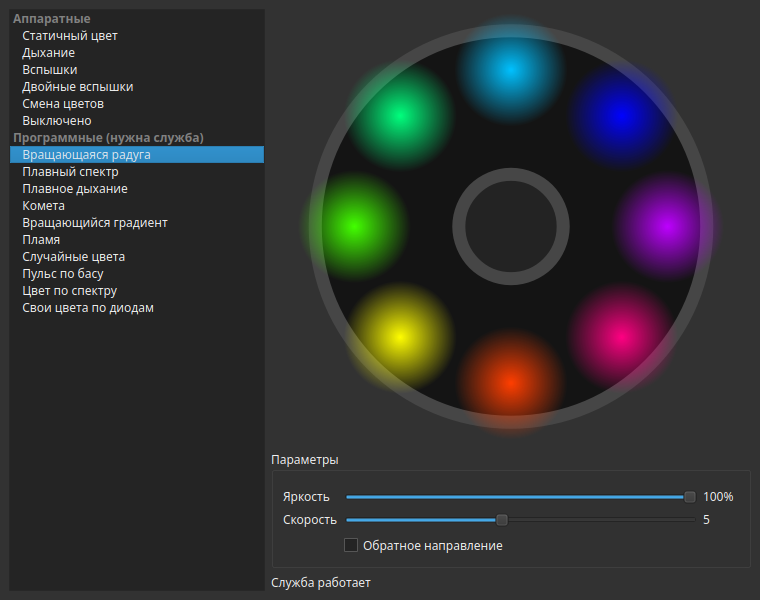
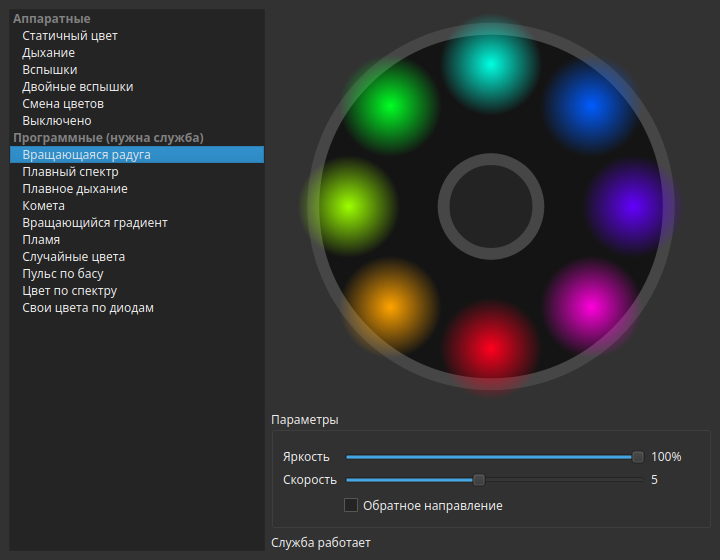
docs: update README and screenshot for the C++ version
Cover the prebuilt .deb and .tar.gz, building from source, the
resource usage of the native daemon and the project layout.

diff --git a/README.md b/README.md
@@ -26,9 +26,12 @@ per-LED software effects the firmware does not have.
   spectrum color. Capture follows the default output when you switch devices, falls back to a
   chosen idle effect during silence, and supports a per-output light delay for Bluetooth
   headphones.
-- **Daemon** (systemd user service) that applies the saved config on login, reapplies it after
-  suspend or USB reconnects, and picks up config changes live.
-- **GUI** (PySide6) with a live fan preview, and a **CLI** for scripting.
+- **Daemon** (systemd user service) that applies the saved config on login, reinitializes the
+  controller after suspend (logind `PrepareForSleep`) or USB reconnects, and picks up config
+  changes live. It is a single native process: about 9 MB of RAM and ~1.5 % of one core while a
+  music effect is running.
+- **Native Qt 6 GUI** with a live fan preview that follows your desktop theme, and a **CLI** for
+  scripting.
 
 ## Hardware
 
@@ -40,7 +43,7 @@ Tested on:
 | Controller | ITE `048d:5702`, firmware `IT5701-GIGABYTE V3.5.5.0` |
 | Case | Cougar Duoface Pro RGB (CGR-5AD1B-RGB), hub in motherboard sync mode |
 
-What the code assumes about the setup (see `cougar_rgb/device.py` to adapt it):
+What the code assumes about the setup (see `src/core/device.hpp` to adapt it):
 
 - the lighting is on `D_LED1`: builtin effects use zone 5, per-LED data goes to register `0x58`,
   direct mode is bit `0x01` of command `0x32`;
@@ -51,38 +54,56 @@ The rest of the controller's zones are switched off when the daemon connects.
 
 ## Installation
 
-Requirements: Linux, Python 3.10+, `numpy`; `PySide6` for the GUI; PipeWire or PulseAudio
-with `pactl` and `parec` for the music effects.
+Prebuilt packages are attached to each [release](https://github.com/simba77/cougar-rgb/releases).
+They are built on Ubuntu 24.04 and need glibc 2.39+, `libsystemd`, `libpulse` (provided by
+PipeWire or PulseAudio) and, for the GUI, Qt 6.4+.
 
-1. Allow your user to access the controller without root:
+### Debian, Ubuntu, KDE neon
 
-   ```sh
-   sudo cp packaging/60-rgb-fusion2.rules /etc/udev/rules.d/
-   sudo udevadm control --reload && sudo udevadm trigger
-   ```
+```sh
+sudo apt install ./cougar-rgb_*_amd64.deb
+systemctl --user start cougar-rgb
+```
 
-2. Install the app, for example with pipx:
+The package installs the udev rule, the systemd user service (enabled for every user) and the
+menu entry.
 
-   ```sh
-   pipx install "cougar-rgb[gui] @ git+https://github.com/simba77/cougar-rgb"
-   ```
+### Other distributions
 
-   Or run it straight from a checkout: `./cougar-rgb <command>`. It uses the system Python,
-   so `numpy` (and `PySide6` for the GUI) must be available to it, from your distribution's
-   packages or pip.
+Extract the `.tar.gz` and install the udev rule so your user can access the controller:
 
-3. Install and start the daemon (systemd user service) and a desktop entry:
+```sh
+tar xzf cougar-rgb-*-linux-x86_64.tar.gz
+cd cougar-rgb-*-linux-x86_64
+sudo cp usr/lib/udev/rules.d/60-rgb-fusion2.rules /etc/udev/rules.d/
+sudo udevadm control --reload && sudo udevadm trigger
+usr/bin/cougar-rgb install      # systemd user service + menu entry pointing at these binaries
+```
 
-   ```sh
-   cougar-rgb install
-   ```
+`cougar-rgb uninstall` removes the service and the menu entry.
 
-   `cougar-rgb uninstall` removes both.
+### From source
+
+Dependencies on Debian/Ubuntu:
+
+```sh
+sudo apt install cmake ninja-build pkg-config qt6-base-dev libsystemd-dev libpulse-dev \
+    nlohmann-json3-dev catch2
+```
+
+```sh
+cmake -S . -B build -G Ninja
+cmake --build build
+ctest --test-dir build
+sudo cmake --install build          # or: cd build && cpack  → .deb and .tar.gz
+```
+
+Pass `-DCOUGAR_BUILD_GUI=OFF` to build only the CLI and daemon, without Qt.
 
 ## Usage
 
 ```sh
-cougar-rgb gui                                   # graphical settings
+cougar-rgb gui                                   # graphical settings (same as cougar-rgb-gui)
 cougar-rgb list                                  # available effects
 cougar-rgb info                                  # controller and daemon status
 cougar-rgb set static -c ff0040 -b 80            # hardware static color at 80 %
@@ -96,14 +117,16 @@ daemon are applied directly; software and music effects need the daemon.
 
 ## Development
 
-```sh
-pip install -e ".[dev,gui]"
-ruff check .
-pytest
-```
+The code is C++20: `src/core` holds the protocol, effects, config, audio analysis and engine
+without any Qt dependency, `src/cli` the `cougar-rgb` CLI and daemon, `src/gui` the Qt Widgets
+GUI. The tests (Catch2) check protocol packets byte-for-byte through a fake transport and feed
+synthetic signals to the audio analyzer, so they need neither the controller nor an audio
+server.
 
-The tests check protocol packets byte-for-byte through a patched `ioctl`, so they need
-neither the controller nor an audio server.
+`COUGAR_RGB_SCREENSHOT=out.png cougar-rgb-gui` renders the window to a file and exits; with
+`QT_QPA_PLATFORM=offscreen` this works without a display.
+
+Versions up to 0.1.x were written in Python; see the `v0.1.1` tag.
 
 ## Credits
 
